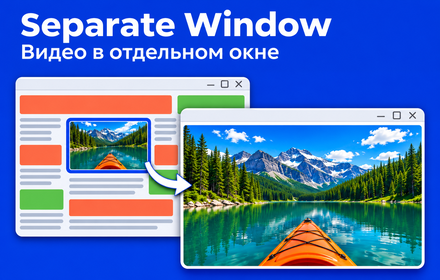
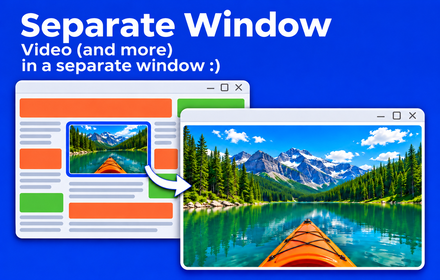
docs: add English promo images with a smile

diff --git a/tools/promo_tile.py b/tools/promo_tile.py
@@ -1,4 +1,4 @@
-"""Export the approved generated master to the exact CWS small-tile format."""
+"""Export the generated English masters to both exact CWS promo formats."""
 from pathlib import Path
 import subprocess
 import sys
@@ -8,21 +8,22 @@ sys.path.insert(0, str(ROOT / 'tools/.deps'))
 import imageio_ffmpeg
 from PIL import Image
 
-source = ROOT / 'docs/store/source/search-tile-master.png'
-destination = ROOT / 'docs/store/assets/promo-440x280.png'
-subprocess.run([
-    imageio_ffmpeg.get_ffmpeg_exe(), '-y', '-v', 'error', '-i', str(source),
-    '-vf', 'scale=440:280:force_original_aspect_ratio=increase:flags=lanczos,crop=440:280,format=rgb24',
-    '-frames:v', '1', str(destination),
-], check=True)
-with Image.open(destination) as image:
-    assert image.size == (440, 280) and image.mode == 'RGB'
-print('PASS: CWS small promo tile, 440x280, RGB PNG without alpha')
+for master, width, height in [('search-tile-master.png', 440, 280), ('marquee-master.png', 1400, 560)]:
+    source = ROOT / 'docs/store/source' / master
+    destination = ROOT / f'docs/store/assets/promo-{width}x{height}.png'
+    subprocess.run([
+        imageio_ffmpeg.get_ffmpeg_exe(), '-y', '-v', 'error', '-i', str(source),
+        '-vf', f'scale={width}:{height}:force_original_aspect_ratio=increase:flags=lanczos,crop={width}:{height},format=rgb24',
+        '-frames:v', '1', str(destination),
+    ], check=True)
+    with Image.open(destination) as image:
+        assert image.size == (width, height) and image.mode == 'RGB'
+    print(f'PASS: CWS promo {width}x{height}, RGB PNG without alpha')
 
 # Review at half size, as recommended by the Chrome Web Store guidance.
 preview = ROOT / 'tools/.artifacts/search-tile-220x140.png'
 preview.parent.mkdir(parents=True, exist_ok=True)
 subprocess.run([
-    imageio_ffmpeg.get_ffmpeg_exe(), '-y', '-v', 'error', '-i', str(destination),
+    imageio_ffmpeg.get_ffmpeg_exe(), '-y', '-v', 'error', '-i', str(ROOT / 'docs/store/assets/promo-440x280.png'),
     '-vf', 'scale=220:140:flags=lanczos', '-frames:v', '1', str(preview),
 ], check=True)

diff --git a/docs/store/promo-tile.md b/docs/store/promo-tile.md
@@ -1,12 +1,12 @@
 # Изображение для поиска
 
-Загрузочный файл: **`assets/promo-440x280.png`**. Это малое рекламное изображение, а не иконка 128×128 и не первый скриншот галереи. Оно заменяет прежнюю абстрактную иллюстрацию двух окон. Пакет расширения для этой замены обновлять не требуется.
+Загрузочные файлы: **`assets/promo-440x280.png`** (малое рекламное изображение) и **`assets/promo-1400x560.png`** (большое рекламное изображение). Для каждого размера своя композиция. Пакет расширения для этой замены обновлять не требуется.
 
 ## Что изменилось
 
-Сверху крупно указано название **Separate Window** и прямое объяснение **«Видео в отдельном окне»**. Ниже показано действие: на загруженной баннерами странице выделен плеер; стрелка ведёт к отдельному чистому окну с видео. Калькулятор убран по запросу пользователя. Синий фон сохраняет связь с иконкой продукта, а яркое изображение озера выделяется в светлом интерфейсе магазина.
+Крупно указано название **Separate Window** и подпись **«Video (and more) in a separate window :)»**. В малом формате текст сверху, в широком — слева. Показано действие: на загруженной баннерами странице выделен плеер; стрелка ведёт к отдельному чистому окну с видео. Калькулятор убран по запросу пользователя. Синий фон сохраняет связь с иконкой продукта, а яркое изображение озера выделяется в светлом интерфейсе магазина.
 
-Малое рекламное изображение общее для всех языков. По выбору пользователя использована русская объясняющая подпись; она будет видна и в других локалях. Уменьшение до 220×140 сохраняет читаемость названия и подписи, силуэты страницы, выделения, стрелки и отдельного окна. Это промоиллюстрация возможностей, не снимок реального интерфейса Chrome. Предполагаемая заметность не подтверждена A/B-тестом.
+Рекламные изображения общие для всех языков. По запросу пользователя оба используют английскую подпись со смайликом. Уменьшение малого изображения до 220×140 сохраняет читаемость названия и подписи, силуэты страницы, выделения, стрелки и отдельного окна. Это промоиллюстрация возможностей, не снимок реального интерфейса Chrome. Предполагаемая заметность не подтверждена A/B-тестом.
 
 ## Основания
 
@@ -15,13 +15,13 @@
 
 ## Исходник и воспроизводимость
 
-Новая иллюстрация создана встроенным инструментом **imagegen**, без сторонних фотографий и логотипов. Мастер: `source/search-tile-master.png`. Полный запрос: `source/search-tile-prompt.txt`. Подготовка размеров и RGB выполнена FFmpeg без повторной генерации.
+Иллюстрации созданы встроенным инструментом **imagegen**, без сторонних фотографий и логотипов. Мастера: `source/search-tile-master.png` и `source/marquee-master.png`. Полные запросы: `source/search-tile-prompt.txt` и `source/marquee-prompt.txt`. Подготовка размеров и RGB выполнена FFmpeg без повторной генерации.
 
 ```powershell
 python tools/promo_tile.py
 python tools/package.py
 ```
 
-Нужны зависимости из `tools/requirements-video.txt` и Pillow. Большое промо 1400×560, иконка, галереи и код расширения не менялись.
+Нужны зависимости из `tools/requirements-video.txt` и Pillow. Иконка, галереи и код расширения не менялись.
 
-В кабинете Chrome Web Store замените изображение в поле **«Маленькое рекламное изображение»**, сохраните карточку и отправьте изменение на проверку. Файл подготовлен локально; в магазин автоматически не отправлен.
+В кабинете Chrome Web Store замените изображения в полях **«Маленькое рекламное изображение»** и **«Очень большое рекламное изображение»**, сохраните карточку и отправьте изменение на проверку. Файлы подготовлены локально; в магазин автоматически не отправлены.

diff --git a/docs/store/README.md b/docs/store/README.md
@@ -8,7 +8,7 @@
 1. **Пакет расширения:** `dist/separate-window-1.4.0.zip`. В корне лежит manifest.json; тестов, документации и исходных SVG в пакете нет.
 2. **Иконка карточки:** `assets/icon128.png` — PNG 128×128, прозрачный отступ 16 px, знак 96×96.
 3. **Скриншоты:** `assets/screenshot-01-select-ru.png`, `screenshot-02-window-ru.png`, `screenshot-03-app-ru.png`, `screenshot-04-widget-ru.png`. Для английской локали — соответствующие `-en.png`. Все 1280×800, PNG RGB. Первые три кадра — одна последовательность: открыть меню расширения, выбрать блок на странице, получить тот же ролик в отдельном окне. В исходной странице вокруг плеера размещены демонстрационные баннеры, рекомендации и подписка. Четвёртый кадр показывает перенос работающего калькулятора как пример использования с другими блоками. Меню показано фрагментами настоящего интерфейса: заголовок и нужная кнопка. Остальные снимки сделаны с работающим расширением на собственной демонстрационной странице. Рабочие заметки, рекламные лозунги и вымышленные приложения не используются.
-4. **Малое промо:** `assets/promo-440x280.png` — название Separate Window, подпись «Видео в отдельном окне» и иллюстрация переноса плеера со страницы с баннерами в чистое окно. Это файл для замены картинки в поиске. Исходник и обоснование: [promo-tile.md](promo-tile.md). Дополнительное большое промо: `assets/promo-1400x560.png`.
+4. **Промо:** `assets/promo-440x280.png` и `assets/promo-1400x560.png` — название Separate Window, английская подпись «Video (and more) in a separate window :)» и иллюстрация переноса плеера со страницы с баннерами в чистое окно. Малое промо используется для картинки поиска; широкое имеет отдельную композицию. Исходники и обоснование: [promo-tile.md](promo-tile.md).
 5. **Тексты карточки:** `listing-ru.md` и `listing-en.md`.
 6. **Privacy practices:** `privacy-fields.md`; инструкции проверки — `reviewer-instructions.md`.
 7. **Privacy policy URL:** https://merlinrus.github.io/SeparateWindow/privacy.html
